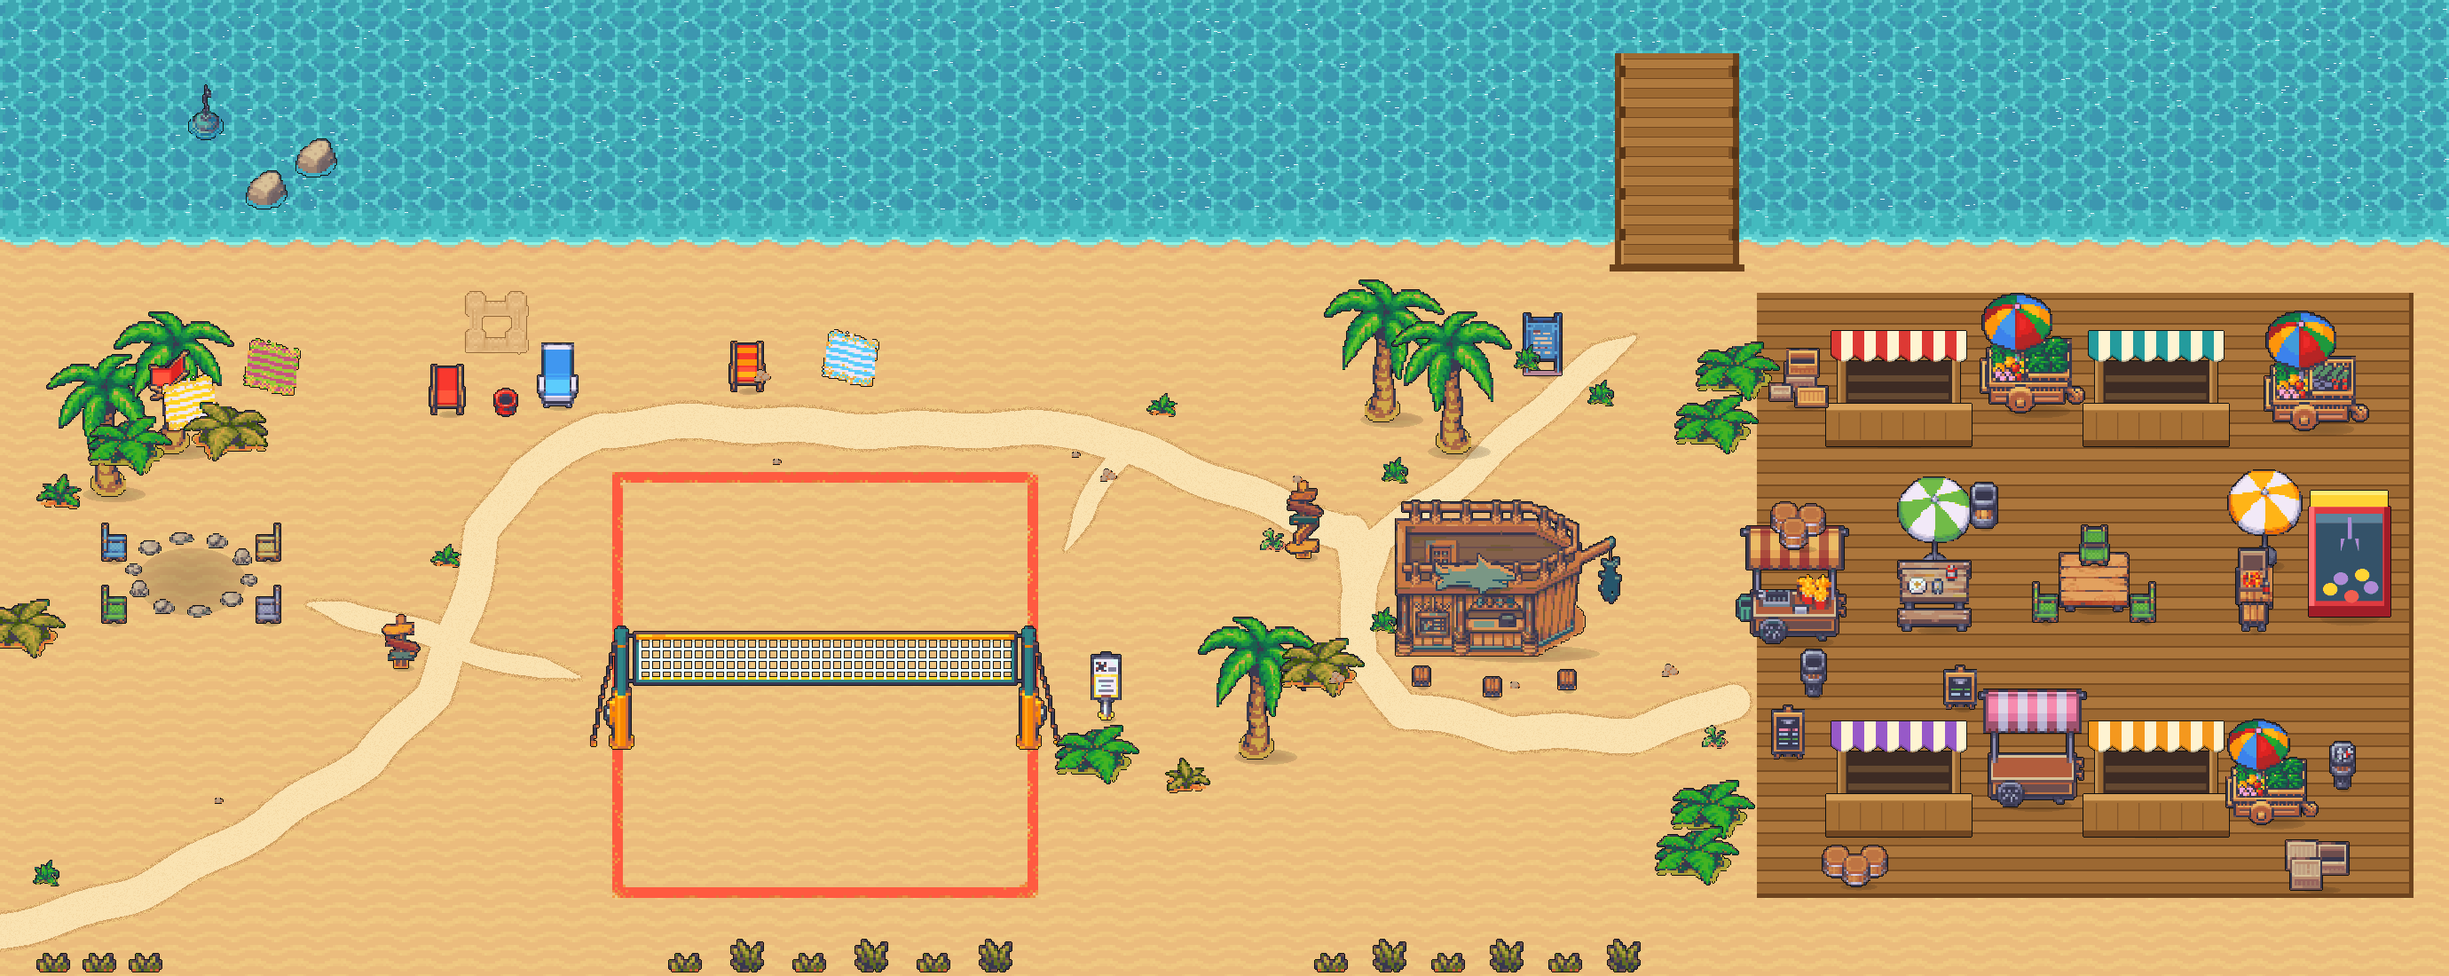
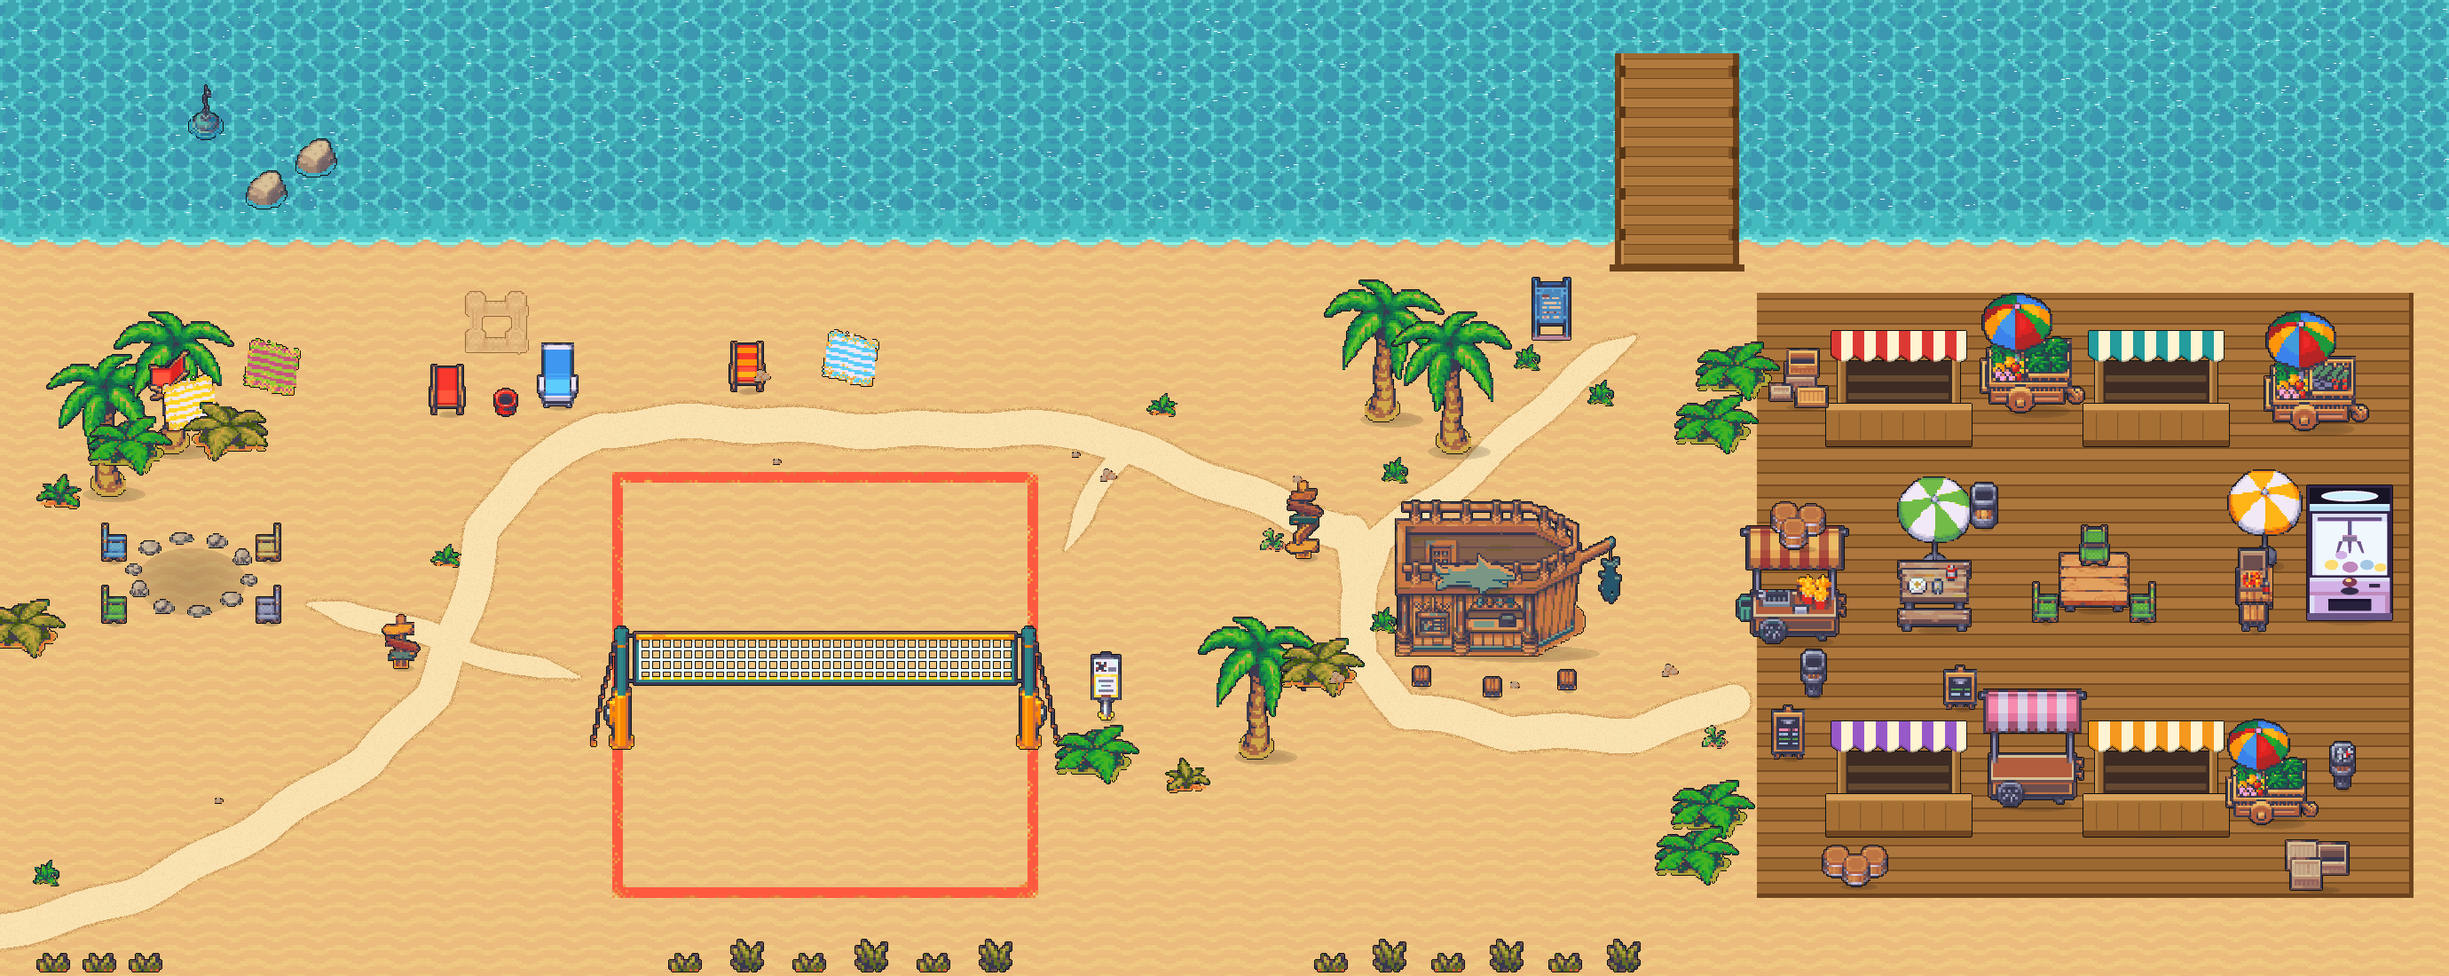
🏴☠ Banana Bay: the Captain takes the shovel, the claw gets a cabinet
⛏ HOLES STRANDED AT THE CROSSROADS — and they were a real bug, not a stray
sprite. Holes were saved as WORLD COORDINATES against a patch INDEX, so when
the dig sites moved with the re-zoning, yesterday's saved holes came back at
yesterday's positions and sat on bare sand forever with nothing under them.
Any future move would have done it again.

Trym's own fix is the better one anyway: "maybe digging holes should disappear
after 30 seconds?" They now fade out after 30s and are not persisted at all —
sand fills itself in. Only `got` (what you actually dug up) is saved, and that
can't drift because it's indexed by spot, not by position.

🏴☠ CAPTAIN SPLIT IS THE DIGGING KEEPER. He wore a bucket hat and a snorkel
— a holidaymaker — and ran a shell-trading post 500px from Shelly's shell
board, while digging had no NPC at all. Trym: "we need maybe an NPC for the
digging, a banana with an eyepatch and pirate hat that we have in our
wearables, and he can have the front frame of the banana with the hands up."
So: tricorn + eyepatch, frame 2 (front, both arms high — 3 is front too but
caught mid-drop). Shells are Shelly's alone now.

🕹 THE CLAW MACHINE, redrawn to Trym's reference. Lavender cabinet, black
marquee with a lit oval sign, a cyan light bar, a big PALE glass — the old
dark-blue interior swallowed both the claw and the prizes — a claw hung on a
real cable from a real rail, a prize pile, a red joystick on its own control
[…]

Changed region(s): [[0.9348, 0.4945, 0.9971, 0.6491], [0.6232, 0.2782, 0.6543, 0.4018]]

diff --git a/src/scripts/banana-beach.js b/src/scripts/banana-beach.js
@@ -75,9 +75,16 @@ function init() {
     if (o) myOutfit = { hat: o.hat || 'none', glasses: o.glasses || 'none', extras: o.extras || {} };
   } catch (e) {}
   const ME_DRAW = { ...myOutfit, top: '', bottom: '', bg: 'transparent', captions: false, effect: 'none' };
-  // Captain Split: bucket hat + snorkel, because of course
+  // 🏴☠ CAPTAIN SPLIT — the pirate tricorn and eye patch are the job title.
+  // He used to wear a bucket hat and a snorkel, which read as a holidaymaker,
+  // and he ran a shell-trading post 500px from Shelly's shell board — two
+  // shell surfaces and no keeper at all for the digging. Trym: "we need maybe
+  // an NPC for the digging, a banana with an eyepatch and pirate hat that we
+  // have in our wearables". So the wreck's keeper IS the digging keeper: he
+  // appraises what you turn up and holds the treasure map. Shells are Shelly's
+  // alone now.
   const CAP_DRAW = {
-    hat: 'buckethat', glasses: 'snorkelmask', extras: {},
+    hat: 'tricorn', glasses: 'eyepatch', extras: {},
     top: '', bottom: '', bg: 'transparent', captions: false, effect: 'none',
   };
   // 🎣 GIL, keeper of the ledger — the old hand at the foot of the dock
@@ -1000,7 +1007,12 @@ function init() {
         fishBob.classList.add('is-bite');
         if (big) fishBob.classList.add('is-bite--rare');
       }
-    }, 2600 + Math.random() * 5200);
+      // ⚠ 7.2-12.4s, up from 2.6-7.8 (Trym: "add 4-5 more seconds to the
+      // fishing mechanic for waiting before the hook is shaking"). The wait IS
+      // the mechanic — a bite you barely had to sit still for isn't a catch,
+      // it's a button. Long enough that you look up at the sea; short enough
+      // that a legendary still feels like it came for you.
+    }, 7200 + Math.random() * 5200);
   }
   function seg(cls, x, y, len, ang, z) {
     const d = document.createElement('div');
@@ -1170,7 +1182,13 @@ function init() {
   // only his proximity circle sat at 1890. Removing the offset and moving the
   // constant to where he really stands keeps the art identical and puts the
   // greeting radius back on his own feet.
-  const GIL = { x: 1816, y: 372, r: 118 };
+  // ⚠ SAME GROUND LINE AS HIS BOARD (Trym: "needs to stand closer to his
+  // sign"). They were only 78px apart in x, which sounds close — but the board
+  // also sat 52px lower, and Gil's 110px canvas holds ~55px of actual banana,
+  // so on screen it read as a sign abandoned down-left of a fisherman. Level
+  // with each other they read as one pitch. Still at the dock mouth, so every
+  // trip out passes him.
+  const GIL = { x: 1812, y: 384, r: 118 };
   const gilEl = document.getElementById('bhGil');
   const gilBubble = document.getElementById('bhGilBubble');
   const gilCtx = document.getElementById('bhGilCv').getContext('2d');
@@ -1416,11 +1434,21 @@ function init() {
     patches.treasureClue = chosen[treasureIn].clue;
   })();
   const DIG_KEY = 'bh-dig-' + digDay;
-  try {                                              // holes persist for today
+  // ⚠ HOLES ARE NOT SAVED ANY MORE — only what you FOUND is.
+  // Trym found holes stranded at the crossroads, on bare sand miles from any
+  // patch. They were real: holes were stored as world coordinates against a
+  // patch INDEX, so when the dig sites moved with the re-zoning, yesterday's
+  // saved holes came back at yesterday's coordinates and sat there forever
+  // with no patch under them. Any future move would do it again.
+  // They also shouldn't persist on their own terms: sand fills itself in.
+  // Holes now fade out after HOLE_LIFE and are gone on reload; `got` (what you
+  // dug up) is the only state worth keeping, and it can't drift because it's
+  // indexed by spot, not by position.
+  const HOLE_LIFE = 30000;
+  try {
     const saved = JSON.parse(localStorage.getItem(DIG_KEY) || 'null');
     if (saved && saved.p) saved.p.forEach((h, i) => {
       if (!patches[i]) return;
-      patches[i].holes = h.holes || [];
       (h.got || []).forEach((k) => { if (patches[i].spots[k]) patches[i].spots[k].got = true; });
     });
   } catch (e) {}
@@ -1428,7 +1456,6 @@ function init() {
     try {
       localStorage.setItem(DIG_KEY, JSON.stringify({
         p: patches.map((p) => ({
-          holes: p.holes,
           got: p.spots.map((s, k) => (s.got ? k : -1)).filter((k) => k >= 0),
         })),
       }));
@@ -1441,6 +1468,14 @@ function init() {
     h.style.left = pct(x, W);
     h.style.top = pct(y, H);
     digWrap.appendChild(h);
+    // the tide fills it back in. ⚠ one timer per hole, and it removes only
+    // its OWN element — the rave's doctrine about lone timers is about
+    // timers that outlive their subject, and this one takes its subject
+    // with it.
+    setTimeout(() => {
+      h.style.opacity = '0';
+      setTimeout(() => h.remove(), 900);
+    }, HOLE_LIFE);
   }
   function paintDigs() {
     patches.forEach((p) => {
@@ -1452,7 +1487,6 @@ function init() {
       el.style.height = pct(PATCH_H, H);
       digWrap.appendChild(el);
       p.el = el;
-      p.holes.forEach((h) => digHole(p, h[0], h[1]));
       if (p.spots.every((s) => s.got)) el.classList.add('is-spent');
     });
   }
@@ -2544,7 +2578,16 @@ function init() {
   // reflect and its tap-or-fetch verb and NOTHING else — a floating ball that
   // borrowed GRAV and vz would be the volleyball with extra steps.
   const wballEl = document.getElementById('bhWBall');
-  const WBALL = { x: 900, y: 236, vx: 0, vy: 0 };
+  const wballSh = document.getElementById('bhWBallShadow');
+  // ⚠ IT HAS A HEIGHT NOW. Trym: "needs to bounce up from the water, like the
+  // volleyball, now its sliding along the water." The first version was pure
+  // 2D drift, which is what a ball nudged along a surface does — but a struck
+  // beach ball leaves the surface. Same shape as the volleyball: z, vz, a
+  // gravity, and a bounce that keeps most of the height. Water is a softer
+  // floor than sand, so the restitution is lower than the volleyball's and the
+  // ball settles after three or four hops instead of ringing on.
+  const WBALL = { x: 900, y: 236, z: 0, vx: 0, vy: 0, vz: 0 };
+  const WB_GRAV = 380, WB_HOP = 0.58;
   // ⚠ BOUNCY, not soggy. Trym: "the water-ball must be more bouncy so that
   // one can bounce it a distance to eachother." The first pass had WB_DRAG
   // 0.30 — v is multiplied by pow(DRAG, dt), so 0.30 kills 70% of the speed
@@ -2577,10 +2620,19 @@ function init() {
       WBALL.vy = (ay / al) * WB_PUSH + (pos.y - prevY) / Math.max(dt, 0.001) * 0.25;
       const s = Math.hypot(WBALL.vx, WBALL.vy);
       if (s > WB_MAX) { WBALL.vx *= WB_MAX / s; WBALL.vy *= WB_MAX / s; }
+      WBALL.vz = 205;                       // it POPS — the hit lifts it out
       float(WBALL.x, WBALL.y - 20, 'splash!');
     }
     WBALL.x += WBALL.vx * dt; WBALL.y += WBALL.vy * dt;
-    const damp = Math.pow(WB_DRAG, dt);
+    WBALL.z += WBALL.vz * dt; WBALL.vz -= WB_GRAV * dt;
+    if (WBALL.z <= 0) {
+      WBALL.z = 0;
+      // ⚠ the deadband is what stops it buzzing on the surface forever. Below
+      // ~52px/s of downward speed it just lands and stays landed.
+      WBALL.vz = WBALL.vz < -52 ? -WBALL.vz * WB_HOP : 0;
+    }
+    // in the air it barely slows; the water is what takes the speed out of it
+    const damp = Math.pow(WBALL.z > 1 ? 0.94 : WB_DRAG, dt);
     WBALL.vx *= damp; WBALL.vy *= damp;
     if (WBALL.x < PEN.x0) { WBALL.x = PEN.x0; WBALL.vx = Math.abs(WBALL.vx) * WB_WALL; }
     else if (WBALL.x > PEN.x1) { WBALL.x = PEN.x1; WBALL.vx = -Math.abs(WBALL.vx) * WB_WALL; }
@@ -2594,8 +2646,19 @@ function init() {
       WBALL.vy += ((PEN.y0 + PEN.y1) / 2 - WBALL.y) * 0.22 * dt;
     }
     wballEl.style.left = pct(WBALL.x, W);
-    wballEl.style.top = pct(WBALL.y, H);
-    depth(wballEl, WBALL.y);
+    wballEl.style.top = pct(WBALL.y - WBALL.z, H);
+    depth(wballEl, WBALL.y);          // sorts by where it FLOATS, not its apex
+    // the dip in the water under it: shrinks and fades as the ball rises, which
+    // is the whole reason the hop reads as height rather than as the ball just
+    // moving up the screen.
+    if (wballSh) {
+      const k = Math.max(0, 1 - WBALL.z / 150);
+      wballSh.style.left = pct(WBALL.x, W);
+      wballSh.style.top = pct(WBALL.y, H);
+      wballSh.style.opacity = (0.32 * k).toFixed(2);
+      wballSh.style.transform = 'translate(-50%,-50%) scale(' + (0.55 + 0.45 * k).toFixed(2) + ')';
+      depth(wballSh, WBALL.y - 1);
+    }
   }
 
   // everyone in Banana World dances on the same wall clock
@@ -2707,7 +2770,11 @@ function init() {
       swamOnce = true; track('beach_swim'); passStat('bh_swim', 1);
     }
   }
-  function drawCap() { drawComposite(capCtx, 150, 3, CAP_DRAW); }  // he stands still, like a barman does
+  // ⚠ FRAME 2 — a FRONT frame with both hands up (Trym: "the front frame of
+  // the banana with the hands up"). 3 is front too but mid-drop; 2 holds the
+  // arms high, which is the pose that reads as a character presenting himself
+  // rather than one caught between steps.
+  function drawCap() { drawComposite(capCtx, 150, 2, CAP_DRAW); }
   // Gil faces the water (frame 0 = VISUALLY left — see the inverted-label note)
   function drawGil() { drawComposite(gilCtx, 150, 0, GIL_DRAW); }
   function hint(on) { if (hintEl) hintEl.classList.toggle('is-off', !on); }

diff --git a/src/scripts/beach-geo.js b/src/scripts/beach-geo.js
@@ -38,7 +38,7 @@ export const OB_RECTS = [
   [1405, 820, 1431, 856],   // palm tree
   [1580, 638, 1822, 748],   // ship bar
   [1234, 806, 1258, 812],   // white cartel
-  [1725, 418, 1751, 424],   // blue cartel 2
+  [1735, 378, 1761, 384],   // blue cartel 2
   [2094, 478, 2186, 506],   // midway
   [2384, 478, 2476, 506],   // midway
   [2094, 918, 2186, 946],   // midway
@@ -102,7 +102,7 @@ export const OVERLAYS = [
   { src: 'ov-13.png', x: 277, y: 192, w: 47, h: 44, base: 236 },
   { src: 'ov-14.png', x: 333, y: 156, w: 47, h: 44, base: 200 },
   { src: 'ov-15.png', x: 1229, y: 734, w: 35, h: 78, base: 812 },
-  { src: 'ov-16.png', x: 1716, y: 352, w: 45, h: 72, base: 424 },
+  { src: 'ov-16.png', x: 1726, y: 312, w: 45, h: 72, base: 384 },
   { src: 'ov-17.png', x: 430, y: 692, w: 44, h: 62, base: 754 },
   { src: 'ov-18.png', x: 1448, y: 541, w: 44, h: 89, base: 630 },
   { src: 'ov-19.png', x: 1189, y: 817, w: 95, h: 67, base: 884 },
@@ -128,7 +128,7 @@ export const OVERLAYS = [
   { src: 'ov-39.png', x: 2057, y: 894, w: 166, h: 50, base: 943 },
   { src: 'ov-40.png', x: 2351, y: 806, w: 158, h: 134, base: 940 },
   { src: 'ov-41.png', x: 2347, y: 894, w: 166, h: 50, base: 943 },
-  { src: 'ov-42.png', x: 2601, y: 548, w: 94, h: 152, base: 700 },
+  { src: 'ov-42.png', x: 2599, y: 546, w: 98, h: 154, base: 700 },
   { src: 'ov-43.png', x: 2231, y: 330, w: 119, h: 136, base: 466 },
   { src: 'ov-44.png', x: 2551, y: 350, w: 119, h: 136, base: 486 },
   { src: 'ov-45.png', x: 2229, y: 776, w: 123, h: 134, base: 910 },

diff --git a/tools/build-beach-scene.py b/tools/build-beach-scene.py
@@ -349,32 +349,79 @@ def build_grabber():
     pier so reaching it is a small pilgrimage. Glass cabinet, prizes you can
     SEE before you can afford them (the whole reason it beat a lottery), and a
     claw parked over them."""
+    # ⚠ REDRAWN 25 Jul to Trym's reference: a LAVENDER arcade cabinet with a
+    # black marquee panel, a big pale glass, the claw hung on a real cable from
+    # a rail, a red joystick on its own control shelf and a dark prize chute.
+    # The first version was a red box with a yellow strip and a claw floating
+    # in mid-air with nothing holding it — it read as a vending machine.
     K = 3
-    w, h = 92 * K, 150 * K
+    w, h = 96 * K, 152 * K
     s = Image.new('RGBA', (w, h), (0, 0, 0, 0))
     d = ImageDraw.Draw(s)
-    BODY, LIT, DRK = (208, 66, 72), (238, 118, 120), (150, 38, 48)
-    d.rectangle([0, 22 * K, w, h - 4 * K], fill=BODY)          # cabinet
-    d.rectangle([0, 22 * K, 6 * K, h - 4 * K], fill=LIT)
-    d.rectangle([w - 7 * K, 22 * K, w, h - 4 * K], fill=DRK)
-    d.rectangle([0, h - 16 * K, w, h - 4 * K], fill=DRK)       # plinth
-    d.rectangle([2 * K, 4 * K, w - 3 * K, 22 * K], fill=(252, 206, 70))   # marquee
-    d.rectangle([2 * K, 4 * K, w - 3 * K, 9 * K], fill=(255, 232, 138))
-    # the glass, and the prizes behind it
-    d.rectangle([8 * K, 30 * K, w - 9 * K, h - 22 * K], fill=(58, 84, 104))
-    for i, (px_, py_, c) in enumerate([
-            (16, 108, (250, 206, 62)), (40, 116, (232, 96, 96)),
-            (62, 106, (120, 190, 232)), (28, 96, (168, 128, 220)),
-            (52, 92, (250, 206, 62))]):
-        d.ellipse([px_ * K, py_ * K, (px_ + 16) * K, (py_ + 14) * K], fill=c)
-    d.rectangle([8 * K, 30 * K, w - 9 * K, 40 * K], fill=(96, 130, 152))  # glare
-    # the claw, parked
-    d.rectangle([44 * K, 34 * K, 48 * K, 58 * K], fill=(198, 198, 206))
-    for dx in (-10, 6):
-        d.polygon([((46 + dx) * K, 58 * K), ((46 + dx + 4) * K, 58 * K),
-                   ((46 + dx + (0 if dx < 0 else 4)) * K, 72 * K)], fill=(170, 170, 182))
-    return blockify(s, factor=K, colors=14, alpha_thresh=0.4, sat=1.1, con=1.06,
-                    warm=0.04, trim=False)
+    INKD = (58, 44, 78)                       # the cabinet's own dark outline
+    BODY, LIT, DRK = (207, 178, 226), (228, 208, 240), (168, 138, 194)
+    GLASS, GLASS_D = (238, 243, 250), (206, 218, 234)
+    BLACK, CYAN = (30, 28, 42), (159, 216, 238)
+
+    def box(x0, y0, x1, y1, fill):
+        d.rectangle([x0 * K, y0 * K, x1 * K, y1 * K], fill=fill)
+
+    box(0, 0, w // K, 152, INKD)                       # one silhouette, inked
+    # ── the marquee: black panel with a lit oval sign
+    box(3, 3, 93, 21, BLACK)
+    d.ellipse([16 * K, 6 * K, 80 * K, 18 * K], fill=(246, 246, 252))
+    d.ellipse([19 * K, 8 * K, 77 * K, 16 * K], fill=(210, 232, 244))
+    box(3, 21, 93, 29, CYAN)                           # the light bar under it
+    box(3, 21, 93, 24, (198, 236, 248))
+    # ── the glass. A pale, near-white cabinet interior is what makes the claw
+    #    and the prizes read; the old dark blue swallowed both.
+    box(3, 29, 93, 104, INKD)
+    box(6, 32, 90, 101, GLASS)
+    box(6, 32, 90, 40, GLASS_D)                        # the glare band
+    box(6, 32, 10, 101, (222, 231, 242))               # the near mullion
+    # the rail the claw hangs from, and the cable
+    box(12, 36, 84, 40, (108, 96, 132))
+    box(46, 40, 50, 58, (86, 78, 108))
+    # ── THE CLAW. A body, then three prongs splayed out of it — the shape is
+    #    the whole silhouette people recognise, so it gets real pixels.
+    box(40, 56, 56, 63, (118, 112, 140))
+    box(40, 56, 56, 58, (162, 158, 184))
+    for x0, x1, tip in ((36, 40, 33), (46, 50, 47), (56, 60, 62)):
+        d.polygon([(x0 * K, 63 * K), (x1 * K, 63 * K), ((tip + 2) * K, 76 * K),
+                   (tip * K, 76 * K)], fill=(96, 90, 122))
+    # ── the prize pile at the bottom of the glass
+    # ⚠ the pile stays clear of the glass floor at y101 — at y92 the biggest
+    # prize spilled over the frame and merged with the joystick below it.
+    for cx_, cy_, rw, rh, c in ((20, 84, 15, 11, (250, 214, 96)),
+                                (40, 86, 17, 12, (238, 128, 148)),
+                                (60, 84, 15, 11, (140, 202, 240)),
+                                (76, 88, 13, 9, (250, 214, 96)),
+                                (32, 74, 13, 9, (186, 156, 232))):
+        d.ellipse([cx_ * K, cy_ * K, (cx_ + rw) * K, (cy_ + rh) * K], fill=c)
+    # ── the control shelf: joystick on a dark base, plus a coin slot
+    box(3, 104, 93, 124, BODY)
+    box(3, 104, 93, 108, LIT)
+    box(3, 120, 93, 124, DRK)
+    # ⚠ THE WHOLE STICK SITS ON THE SHELF (y104-124). A first pass put the
+    # ball at y100, which is inside the GLASS — it read as a purple blob stuck
+    # to the cabinet door rather than a control you grip.
+    d.ellipse([38 * K, 115 * K, 58 * K, 123 * K], fill=(74, 66, 96))
+    box(46, 108, 50, 118, (58, 52, 78))                # the shaft
+    d.ellipse([40 * K, 104 * K, 56 * K, 114 * K], fill=(232, 60, 60))
+    d.ellipse([43 * K, 105 * K, 50 * K, 109 * K], fill=(255, 146, 146))
+    box(70, 111, 82, 115, (58, 52, 78))                # coin slot
+    # ── the front, the chute, the plinth
+    box(3, 124, 93, 144, BODY)
+    box(3, 124, 8, 144, LIT)
+    box(88, 124, 93, 144, DRK)
+    box(24, 128, 72, 141, (46, 40, 66))                # the prize chute
+    box(24, 128, 72, 131, (30, 26, 48))
+    box(0, 144, w // K, 152, (108, 88, 138))           # plinth
+    # ⚠ colors=20, not 16 — the cabinet is mostly lavender, and at 16 the
+    # quantiser spent the whole palette on its shades and turned the red
+    # joystick purple.
+    return blockify(s, factor=K, colors=20, alpha_thresh=0.4, sat=1.06, con=1.05,
+                    warm=0.02, trim=False)
 
 
 # ---- the object layer: pack art at NATIVE scale ---------------------------
@@ -1276,7 +1323,11 @@ if HAVE_PACK:
     # thing standing in it.
     place('21_Beach_48x48_White_Cartel.png', 1246, 812, scale=0.94, sh=0.26,
           layer=True, solid=('rect', -12, -6, 12, 0))    # 🐚 SHELLY'S BOARD 36x78
-    place('21_Beach_48x48_Blue_Cartel_2.png', 1738, 424, scale=0.90, sh=0.26,
+    # ⚠ ON GIL'S OWN GROUND LINE. It used to sit 52px lower than him as well
+    # as to his left, and the diagonal is what made them look unrelated — his
+    # canvas is 110px wide but the banana ink inside it is only ~55, so the
+    # gap on screen was much bigger than the coordinates suggested.
+    place('21_Beach_48x48_Blue_Cartel_2.png', 1748, 384, scale=0.90, sh=0.26,
           layer=True, solid=('rect', -13, -6, 13, 0))    # 🎣 GIL'S BOARD 45x72
     # Blue_Cartel_2 over _1: its red highlighted row and colour swatch read as
     # "today's catch", where _1's blank 2x2 grid reads as an empty timetable.
